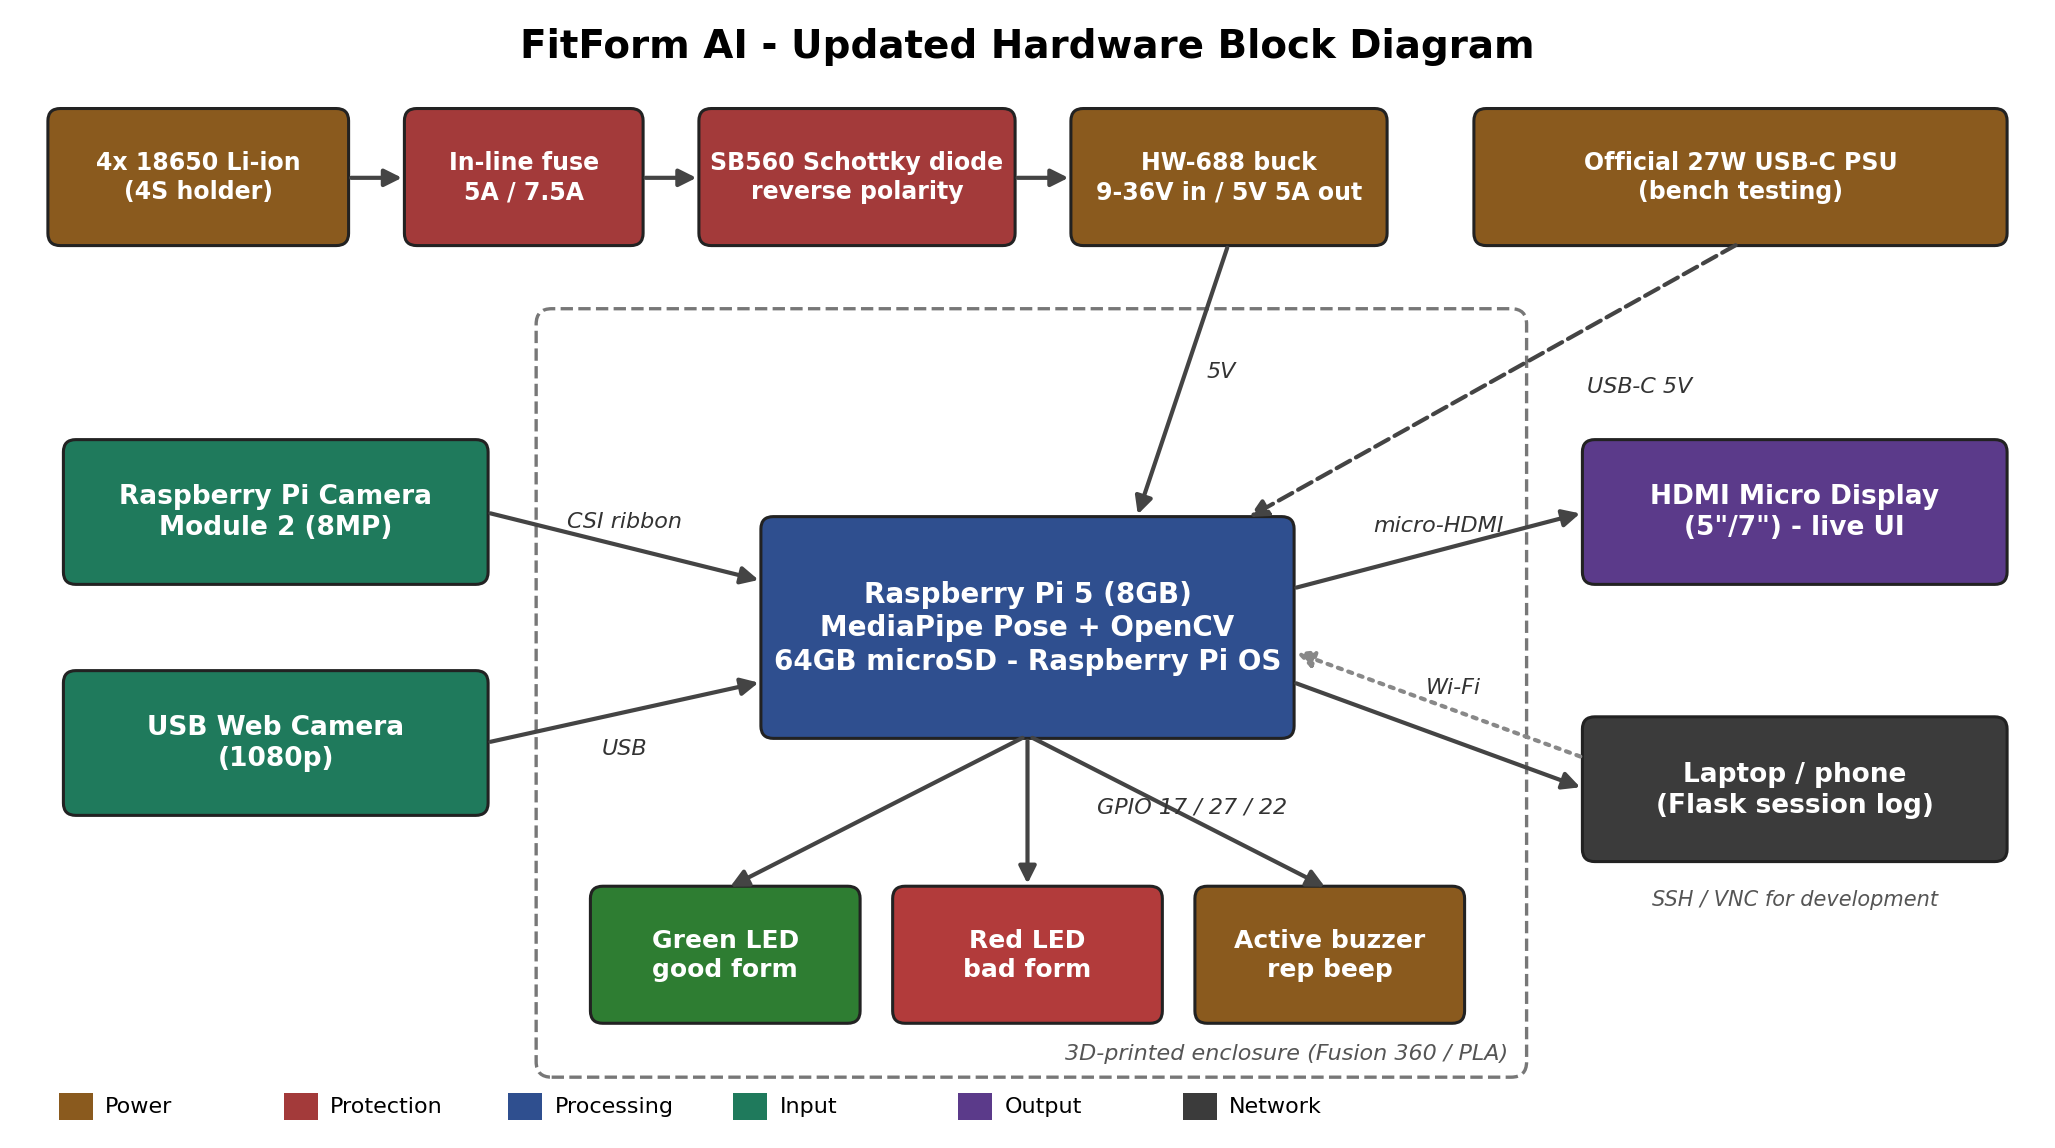
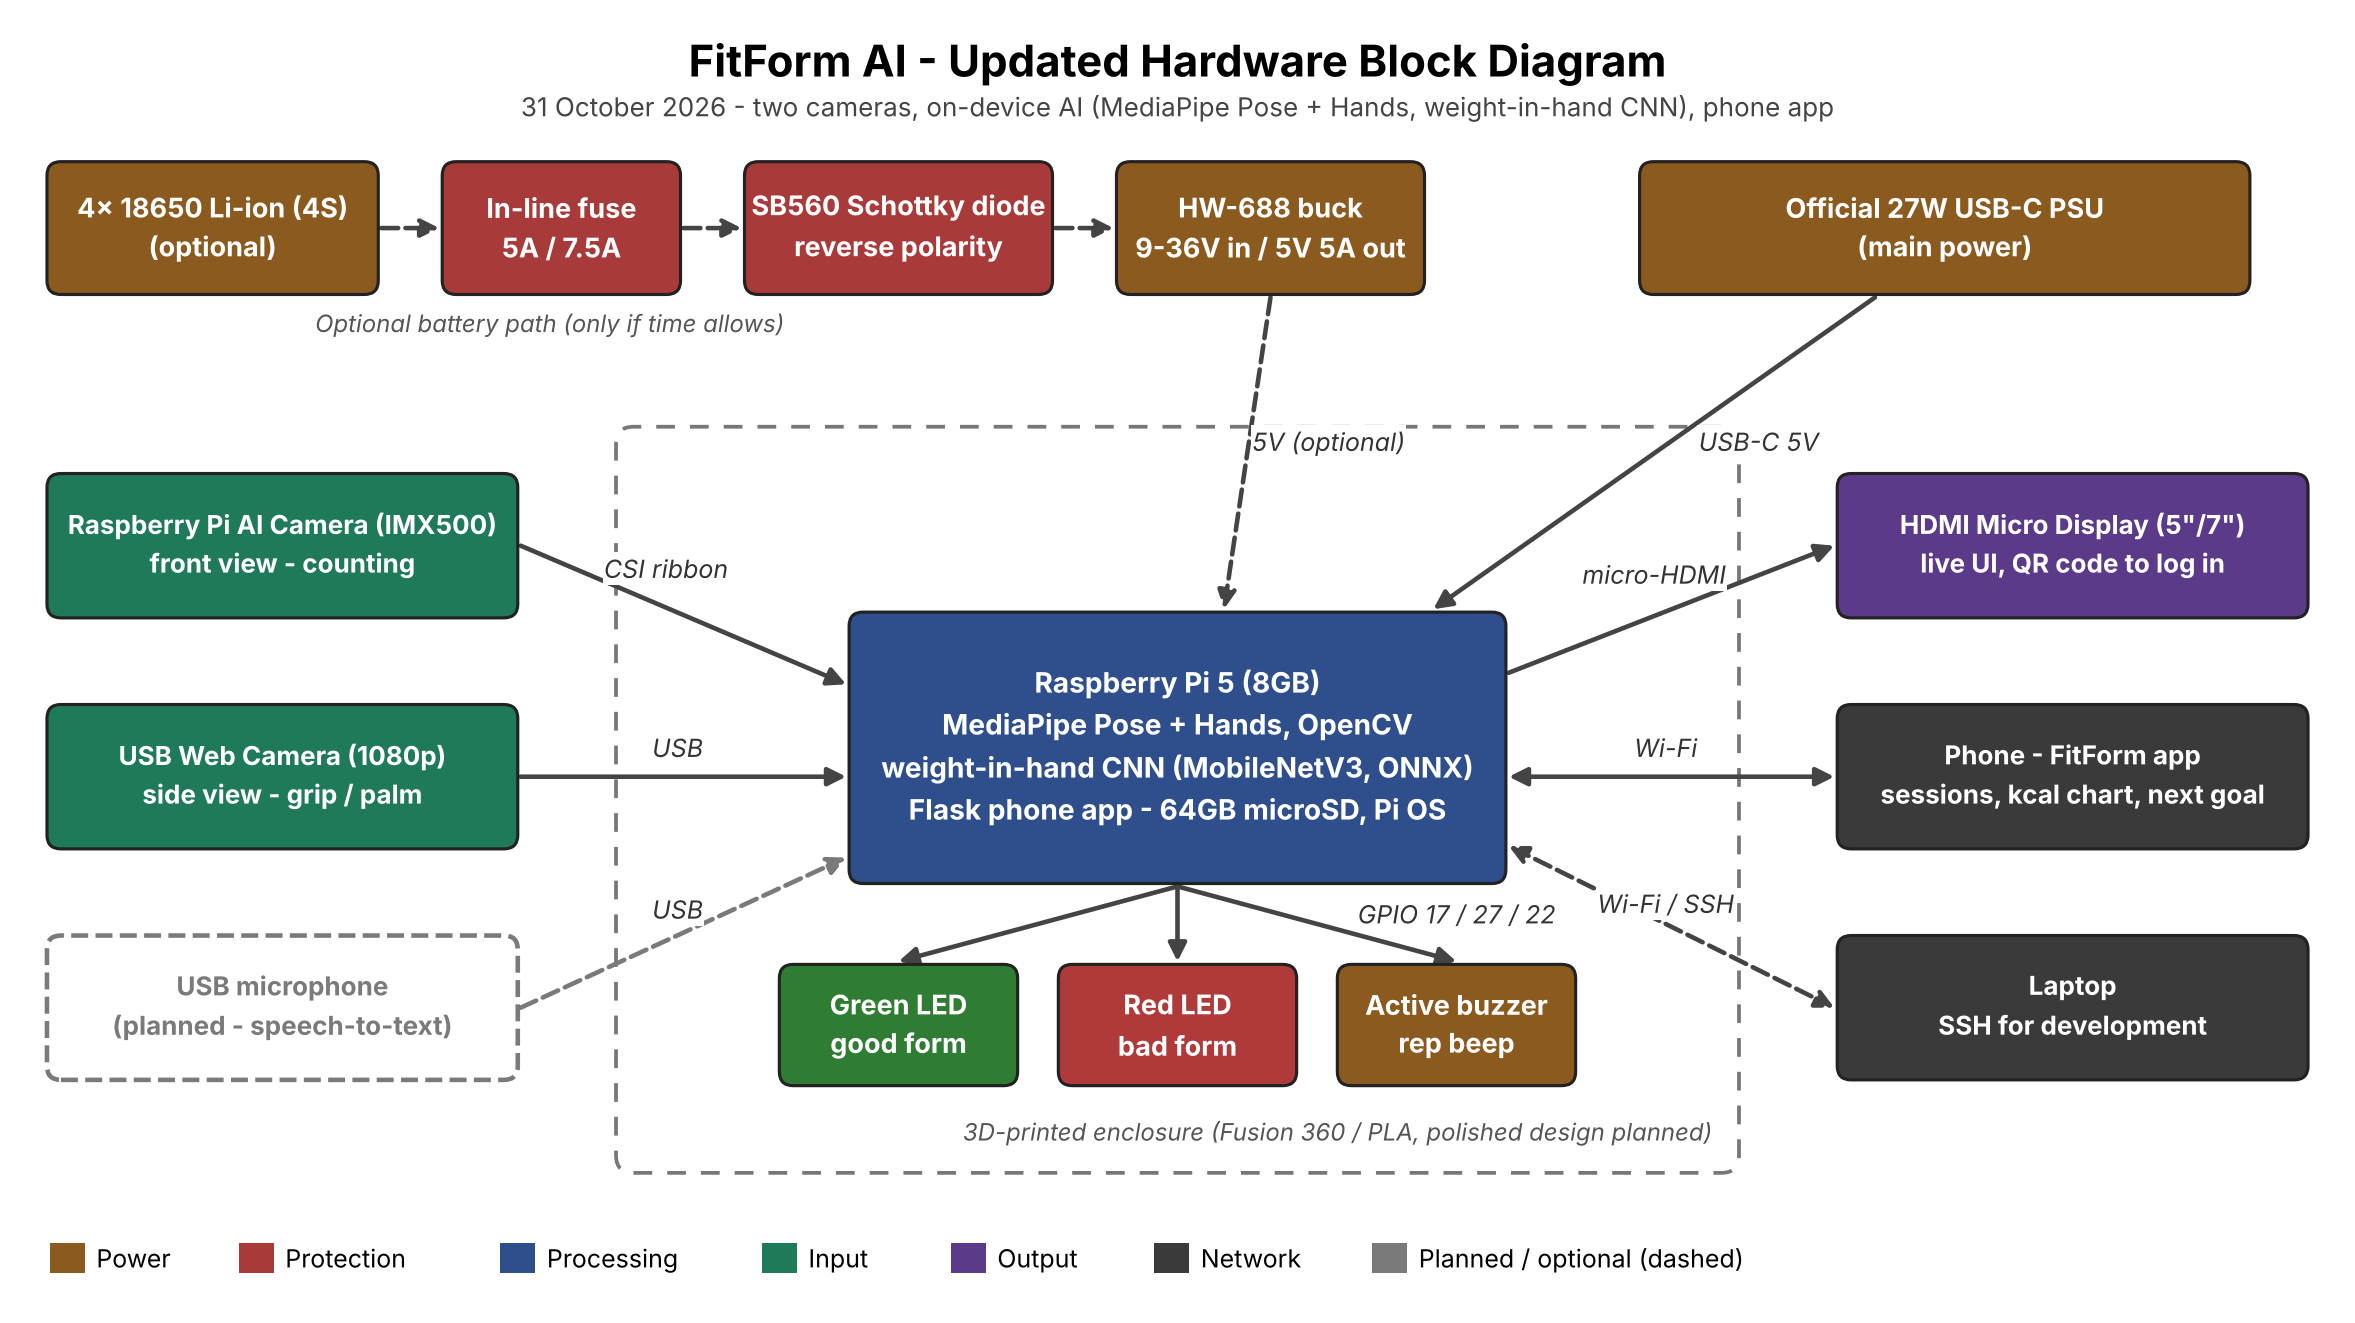
Diagram and photo upload

diff --git a/docs/README.md b/docs/README.md
@@ -3,7 +3,8 @@
 | Folder | What is in it |
 |---|---|
 | [gantt/](gantt/) | Project Gantt chart (daily), updated after each supervisor meeting |
-| [figures/](figures/) | Hardware block diagram, wiring diagram and other figures |
+| [figures/](figures/) | Hardware block diagram and other figures (wiring diagram to follow) |
+| [photos/](photos/) | Photos of the parts and the build progress |
 
 Videos: see [VIDEOS.md](../VIDEOS.md)
 
@@ -16,3 +17,13 @@ Status up to 31 Oct and the plan to the VIVA on 2 Dec 2026. The Excel file also 
 - PDF: [FitForm_AI_Gantt_Chart_Daily_v7.pdf](gantt/FitForm_AI_Gantt_Chart_Daily_v7.pdf)
 
 ![Gantt chart 31 Oct 2026](gantt/Gantt_chart_31_Oct_2026.png)
+
+## Hardware block diagram (31 Oct 2026)
+
+![Figure 1 - Updated hardware block diagram](figures/Figure%201%20-%20Updated%20hardware%20block%20diagram.png)
+
+## Photos of the parts (31 Oct 2026)
+
+![Photo 1 - Power and feedback parts](photos/Photo%201%20-%20Power%20and%20feedback%20parts%20%2818650%20cells%20and%20holders%2C%20buck%20converter%2C%20buzzer%2C%20breadboard%2C%20wires%29.png)
+
+![Photo 2 - Raspberry Pi 5 and accessories](photos/Photo%202%20-%20Raspberry%20Pi%205%20and%20accessories%20as%20received.png)
